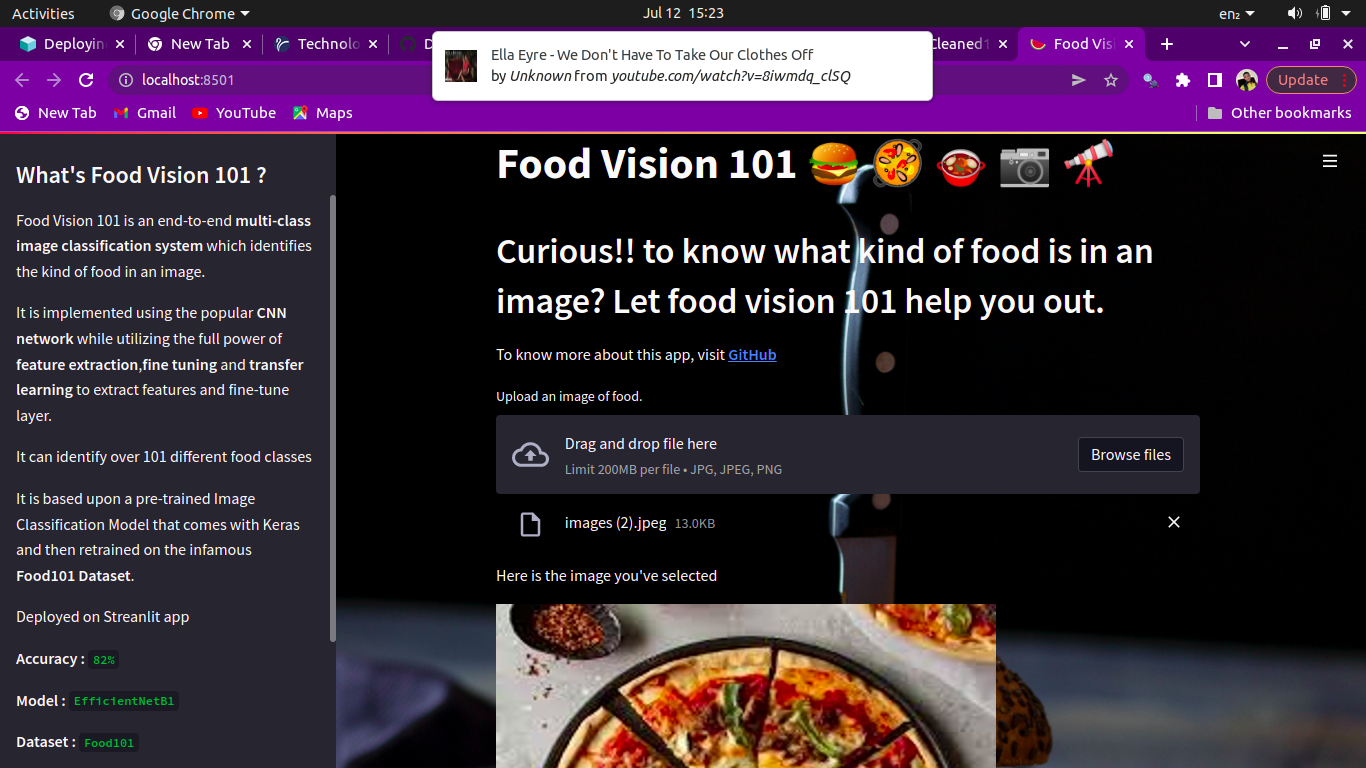
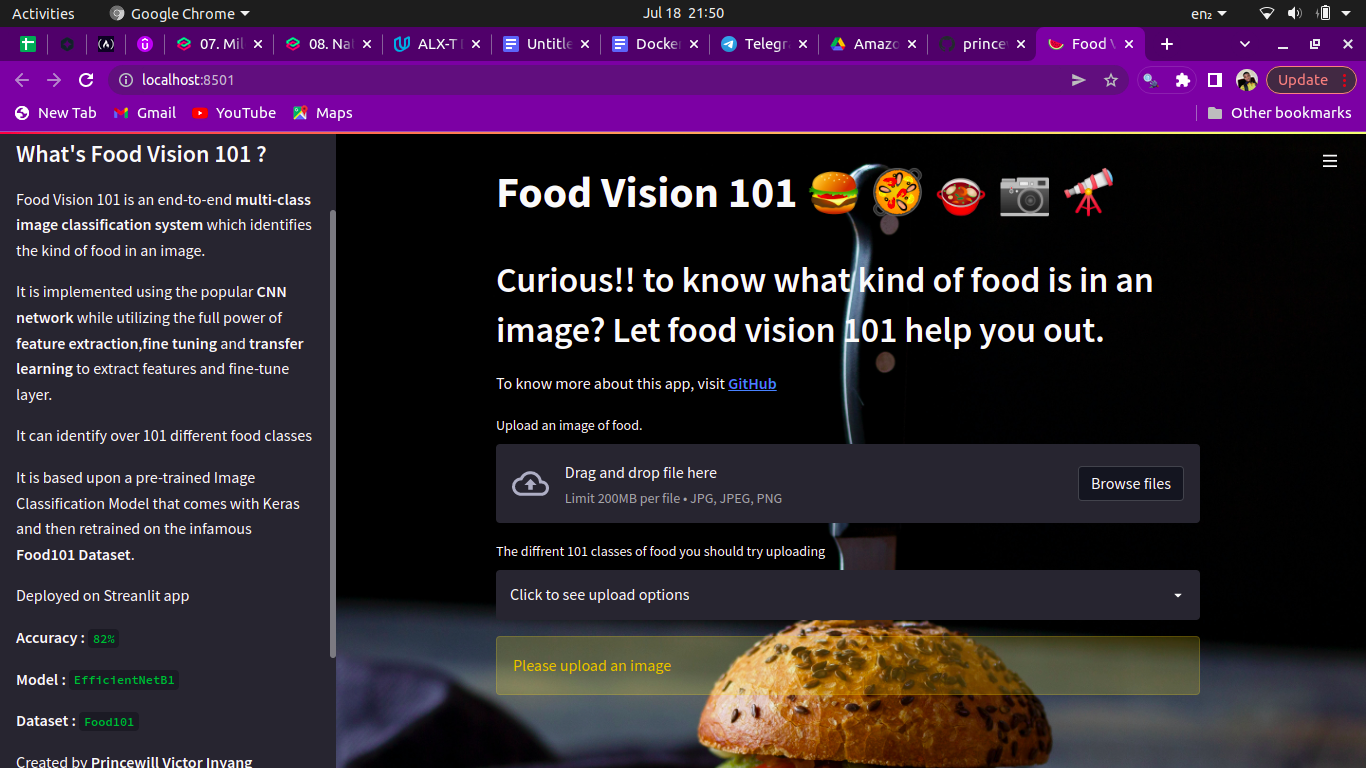
second

diff --git a/app.py b/app.py
@@ -107,15 +107,15 @@ Deployed on Streanlit app
 
 st.title("Food Vision 101 🍔 🥘 🍲 📷 🔭")
 st.header("Curious!! to know what kind of food is in an image? Let food vision 101 help you out.")
-st.write("To know more about this app, visit [**GitHub**](https://github.com/princewilling)")
+st.write("To know more about this app, visit [**GitHub**](https://github.com/princewilling/Food_Vision_101)")
 file = st.file_uploader(label="Upload an image of food.",
                         type=["jpg", "jpeg", "png"])
 
 
-model = tf.keras.models.load_model("./models/FinalModel.hdf5")
+model = tf.keras.models.load_model("./models/EfficientNetB1.hdf5")
 
 
-st.sidebar.markdown("Created by **Princewill Inyang**")
+st.sidebar.markdown("Created by **Princewill Victor Inyang**")
 st.sidebar.markdown(body="""
 
 <th style="border:None"><a href="https://linkedin.com/in/princewill-inyang-6b07021b0" target="blank"><img align="center" src="https://bit.ly/3wCl82U" alt="gauravreddy08" height="40" width="40" /></a></th>

diff --git a/README.md b/README.md
@@ -34,7 +34,7 @@ To run this project, install it locally using npm:
 
 ```
 $ cd ../FOODVISION
-$ pip install requirement.txt
+$ pip install -r requirement.txt
 $ streamlit run app.py
 ```
 
@@ -66,7 +66,7 @@ As we are dealing with a complex Neural Network (EfficientNetB1) its a good prac
    - **ReduceLROnPlateau :** Reduce learning rate when a metric has stopped improving.
 
 Applied transfer learning to build a  [Fine Tuning](https://www.tensorflow.org/tutorials/images/transfer_learning)  Model
-> Again if you want to dive deeper on how the model was trained check out **[`model-training.ipynb`](https://github.com/princewilling) Notebook**
+> Again if you want to dive deeper on how the model was trained check out **[`model-training.ipynb`](https://github.com/princewilling/Food_Vision_101/blob/main/modeling.ipynb) Notebook**
 
 #### Model Results
 * Training accuracy, weighted recall, weighted precision, and weighted F1 scores were all .82
